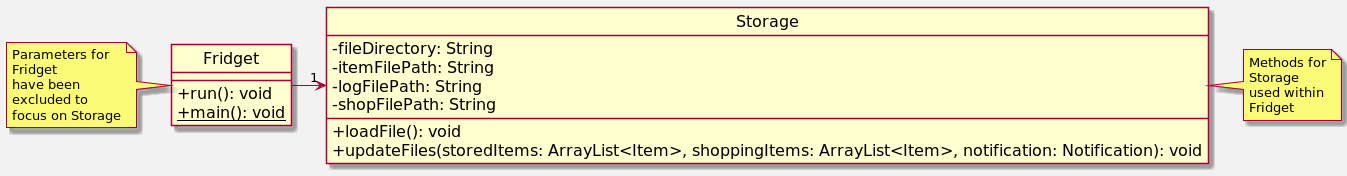
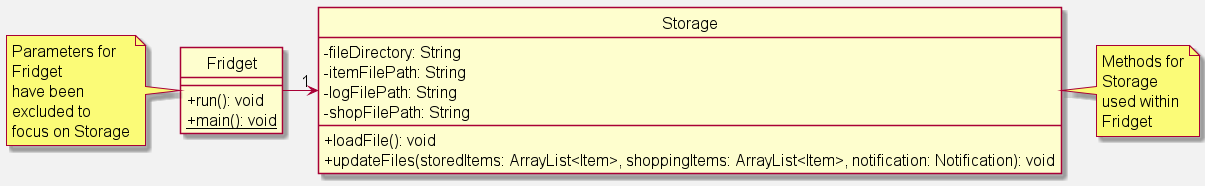
Fix font size for storage class diagram

Changed region(s): [[0.0, 0.0284, 1.0, 0.9943], [0.522, 0.0852, 0.6141, 0.1705]]

diff --git a/docs/DeveloperGuide.md b/docs/DeveloperGuide.md
@@ -133,6 +133,8 @@ on.
 
 ![StorageClass](./umlDiagrams/StorageClass.png)
 
+Above is the image representing the association between Fridget and Storage.
+
 The Storage class takes charge of storing items after every command, and
 retrieving them upon startup. The Storage class is also responsible for 
 printing timely health and expiry notification.
